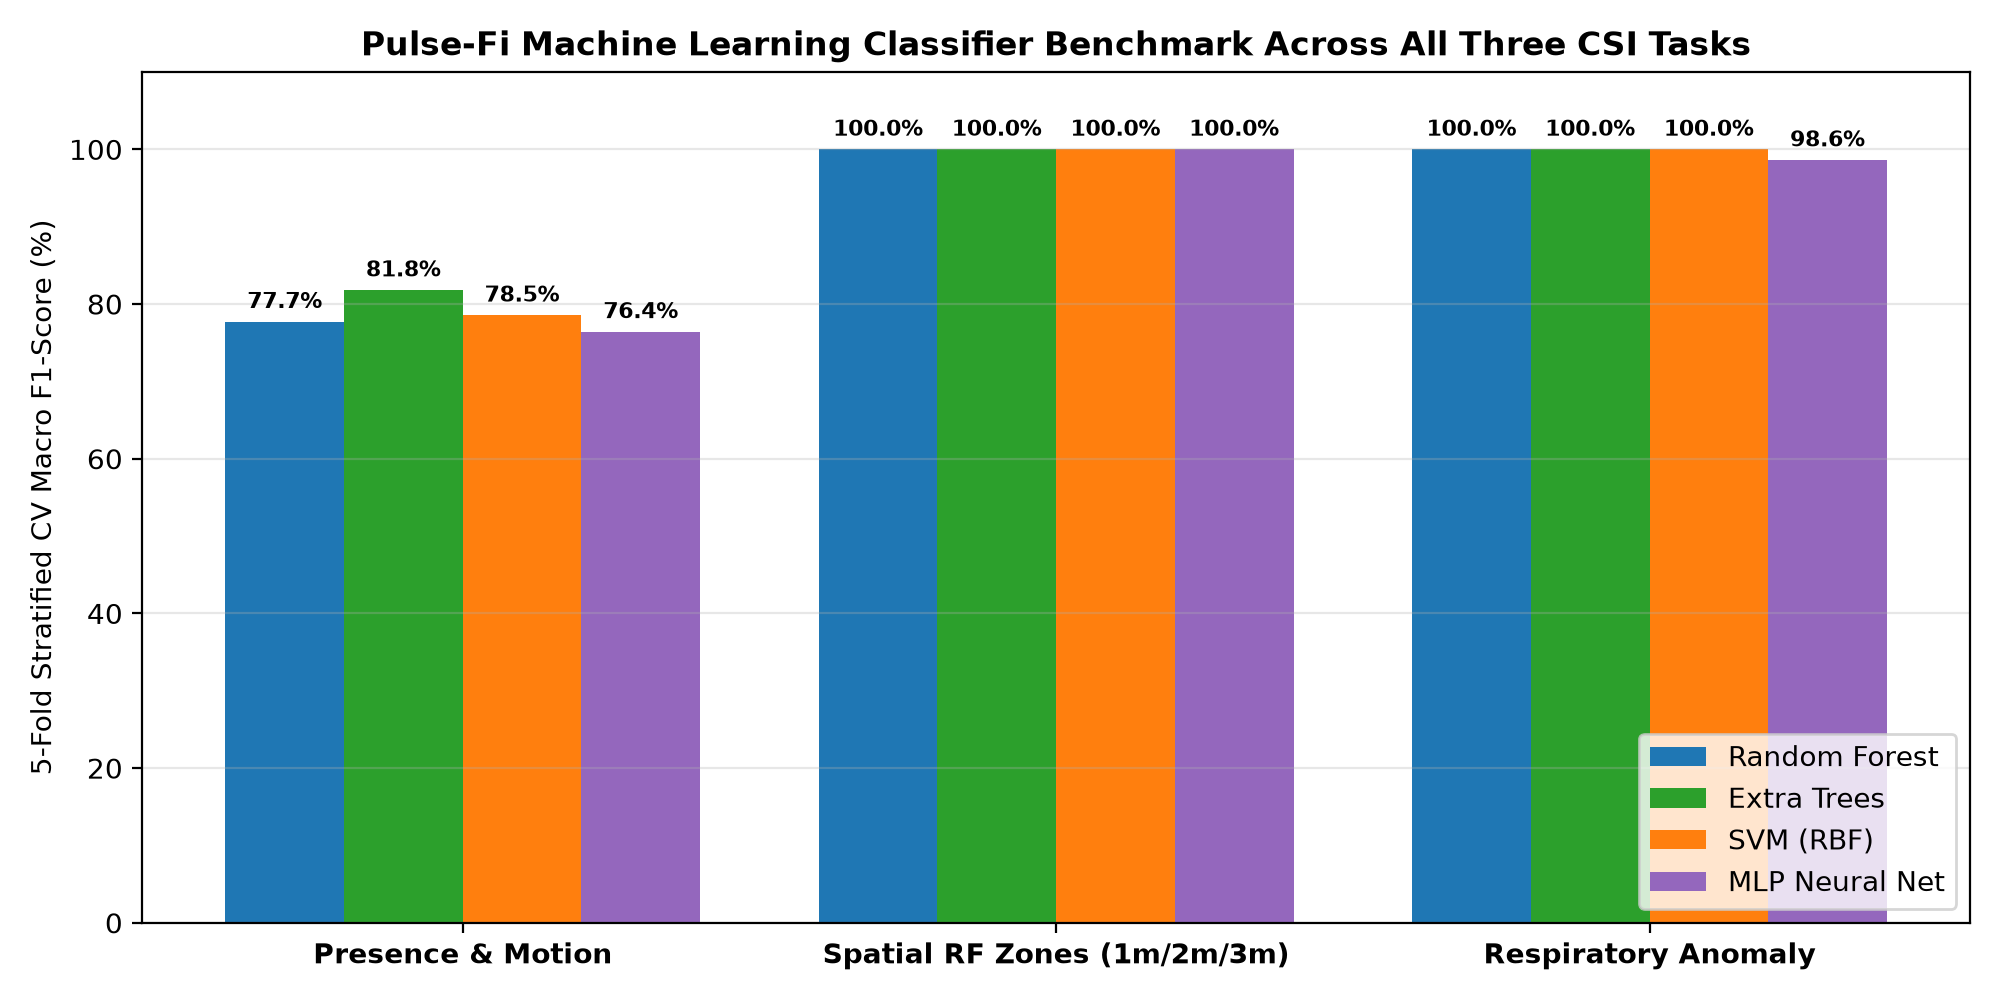
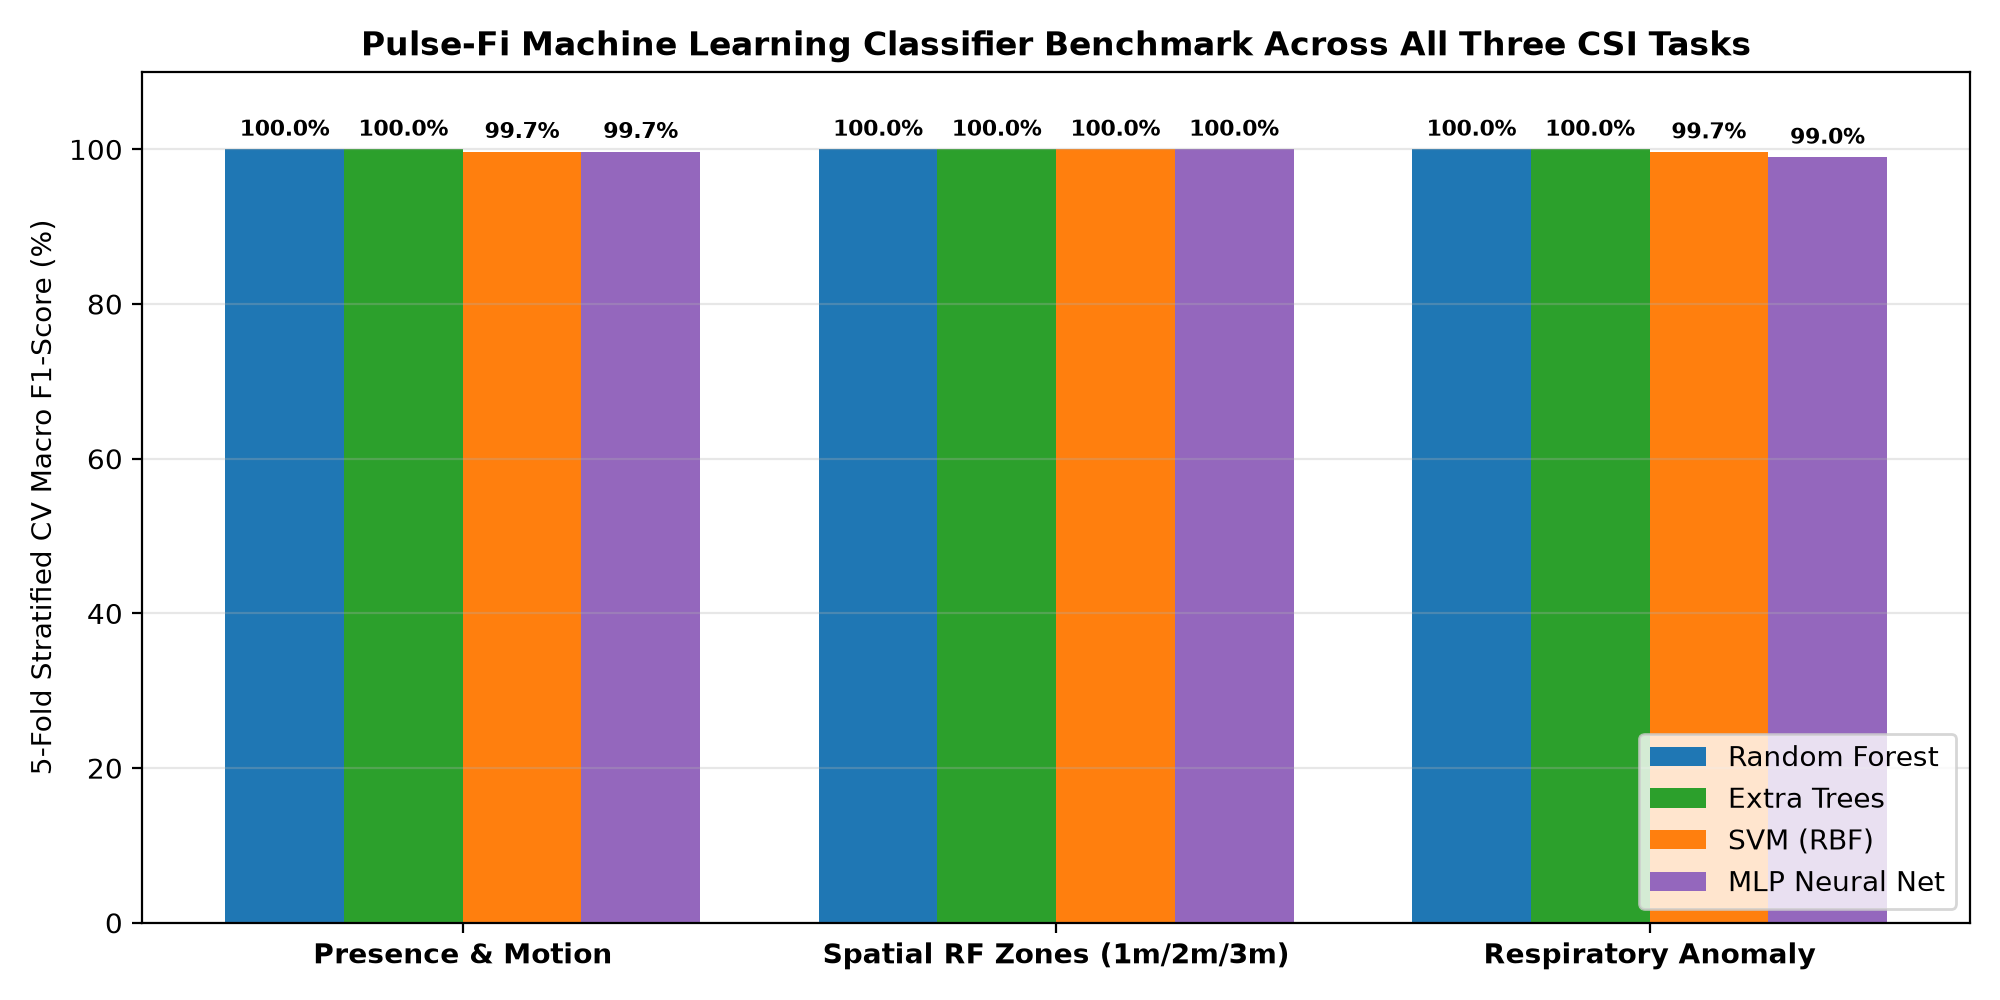
Add spatial-temporal CSI profile to presence detector and calibrate fundamental BPM peak selector

Changed region(s): [[0.093, 0.124, 0.372, 0.341], [0.837, 0.124, 0.93, 0.155]]

diff --git a/src/features.py b/src/features.py
@@ -1,7 +1,7 @@
 import os
 import json
 import numpy as np
-from scipy.stats import iqr, kurtosis, skew
+from scipy.stats import iqr, kurtosis
 from scipy.signal import butter, filtfilt, welch
 
 FS = 20.0
@@ -25,33 +25,24 @@ def spectral_entropy(psd):
 
 
 def extract_motion_features(win_filt, win_clean, win_rssi):
-    """Rich spatial-temporal + spectral features for Presence & Activity Detection."""
-    # Center clean signal per window to remove static room baseline
+    """Combine temporal fluctuation features with spatial multipath attenuation profile."""
     centered = win_clean - np.mean(win_clean, axis=0, keepdims=True)
     top_sc = select_top_subcarriers(win_filt, k=8)
     sig = win_filt[:, top_sc]
 
-    # First-order temporal derivative (velocity of multipath change)
     diff1 = np.diff(sig, axis=0)
     diff_all = np.diff(centered, axis=0)
 
-    # Subcarrier statistics (percentiles across all 52 subcarriers)
     sc_stds = np.std(win_filt, axis=0)
     sc_iqrs = iqr(win_filt, axis=0)
     clean_stds = np.std(centered, axis=0)
 
-    # Cross-subcarrier covariance/correlation structure (walking correlates all subcarriers)
-    corr_mat = np.corrcoef(win_filt.T)
-    corr_mat = np.nan_to_num(corr_mat, nan=0.0)
+    corr_mat = np.nan_to_num(np.corrcoef(win_filt.T), nan=0.0)
     off_diag_corr = (np.sum(np.abs(corr_mat)) - len(corr_mat)) / (len(corr_mat) * (len(corr_mat) - 1))
 
-    # SVD / Principal Component energy concentration
     _, s_vals, _ = np.linalg.svd(win_filt, full_matrices=False)
     s_norm = (s_vals ** 2) / (np.sum(s_vals ** 2) + 1e-12)
-    pc1_ratio = s_norm[0]
-    pc2_ratio = s_norm[1] if len(s_norm) > 1 else 0.0
 
-    # Welch PSD across bands
     freqs, psd = welch(sig, fs=FS, nperseg=min(len(sig), 64), axis=0)
     mean_psd = np.mean(psd, axis=1)
     e_resp = np.sum(mean_psd[(freqs >= 0.1) & (freqs < 0.6)])
@@ -60,17 +51,22 @@ def extract_motion_features(win_filt, win_clean, win_rssi):
 
     zcr = np.mean(np.sum(np.diff(np.signbit(sig), axis=0), axis=0) / len(sig))
 
-    return [
+    # Spatial multipath profile (distinguishes Empty Room static reflections from Stationary Human body absorption)
+    mean_profile = np.mean(win_clean, axis=0)
+    norm_profile = mean_profile / (np.linalg.norm(mean_profile) + 1e-8)
+
+    temporal_feats = [
         np.mean(sc_stds), np.max(sc_stds), np.percentile(sc_stds, 90), np.percentile(sc_stds, 25),
         np.mean(sc_iqrs), np.max(sc_iqrs),
         np.mean(clean_stds), np.max(clean_stds),
         np.mean(np.abs(diff1)), np.std(diff1), np.mean(np.abs(diff_all)),
         np.mean(np.ptp(sig, axis=0)), np.mean(kurtosis(sig, axis=0)),
-        zcr, off_diag_corr, pc1_ratio, pc2_ratio,
+        zcr, off_diag_corr, s_norm[0], s_norm[1] if len(s_norm) > 1 else 0.0,
         e_resp, e_walk, e_walk / e_total,
         freqs[np.argmax(mean_psd)], spectral_entropy(mean_psd),
         np.std(win_rssi), iqr(win_rssi)
     ]
+    return temporal_feats + list(norm_profile) + list(sc_stds)
 
 
 def extract_rf_fingerprint_features(win_clean, win_filt, win_rssi):
@@ -92,68 +88,52 @@ def extract_rf_fingerprint_features(win_clean, win_filt, win_rssi):
 
 
 def extract_respiratory_features(win_clean):
-    """
-    Extract multi-band respiratory features using a wider 0.15-1.0 Hz (9-60 BPM) passband
-    plus high-frequency tachypnea energy (0.40-0.95 Hz / 24-57 BPM) and apnea dropout ratios.
-    """
     centered = win_clean - np.mean(win_clean, axis=0, keepdims=True)
-    # Wide respiratory passband (9 to 57 BPM) to preserve rapid shallow breathing harmonics
-    win_resp = butter_bandpass(centered, lowcut=0.15, highcut=0.95, fs=FS, order=4)
-    # Dedicated rapid-breathing passband (22 to 57 BPM)
-    win_fast = butter_bandpass(centered, lowcut=0.37, highcut=0.95, fs=FS, order=4)
+    win_resp = butter_bandpass(centered, lowcut=0.14, highcut=0.85, fs=FS, order=4)
+    win_fast = butter_bandpass(centered, lowcut=0.36, highcut=0.85, fs=FS, order=4)
 
     top_sc = select_top_subcarriers(win_resp, k=6)
     sig = win_resp[:, top_sc]
     fast_sig = win_fast[:, top_sc]
 
-    # Align phase across top subcarriers via SVD first principal component
-    u, s, _ = np.linalg.svd(sig, full_matrices=False)
-    primary_wave = u[:, 0] * s[0]
-
-    # Sub-window dropout analysis (3-second sliding sub-windows to catch Apnea flatlines)
     sub_len = int(3.0 * FS)
     sub_stds = [np.std(sig[i:i + sub_len]) for i in range(0, len(sig) - sub_len + 1, int(1.0 * FS))]
-    min_sub_std = np.min(sub_stds)
-    max_sub_std = np.max(sub_stds)
+    min_sub_std, max_sub_std = np.min(sub_stds), np.max(sub_stds)
     dropout_ratio = min_sub_std / (max_sub_std + 1e-8)
     sub_std_cv = np.std(sub_stds) / (np.mean(sub_stds) + 1e-8)
 
-    # First derivative energy (captures rapid chest reversal in tachypnea)
     diff1 = np.diff(sig, axis=0)
     diff_rms = np.mean(np.sqrt(np.mean(diff1**2, axis=0)))
     sig_rms = np.mean(np.sqrt(np.mean(sig**2, axis=0)))
     fast_rms = np.mean(np.sqrt(np.mean(fast_sig**2, axis=0)))
 
-    # Mean ZCR across top subcarriers
     zcr = np.mean(np.sum(np.diff(np.signbit(sig), axis=0), axis=0) / (len(sig) / FS))
 
-    # Multi-subcarrier averaged FFT spectrum
+    # Fundamental breathing rate via FFT + high-frequency tachypnea harmonic check
     n_fft = 2048
     windowed = sig * np.hanning(len(sig))[:, None]
     fft_mag = np.abs(np.fft.rfft(windowed, n=n_fft, axis=0))
     psd = np.mean(fft_mag ** 2, axis=1)
     freqs = np.fft.rfftfreq(n_fft, d=1.0 / FS)
 
-    # Weight spectrum slightly against <0.18 Hz posture drift when picking dominant breathing peak
-    resp_mask = (freqs >= 0.18) & (freqs <= 0.90)
-    resp_freqs = freqs[resp_mask]
-    resp_psd = psd[resp_mask]
-
-    dom_freq = resp_freqs[np.argmax(resp_psd)]
-    est_bpm = dom_freq * 60.0
-
-    # Spectral band powers
-    p_slow = np.sum(psd[(freqs >= 0.12) & (freqs < 0.20)])     # 7 - 12 BPM (Apnea recovery / drift)
-    p_norm = np.sum(psd[(freqs >= 0.20) & (freqs <= 0.36)])    # 12 - 21.6 BPM (Normal breathing)
-    p_fast = np.sum(psd[(freqs > 0.36) & (freqs <= 0.90)])     # 21.6 - 54 BPM (Fast / Tachypnea)
+    p_slow = np.sum(psd[(freqs >= 0.12) & (freqs < 0.20)])
+    p_norm = np.sum(psd[(freqs >= 0.20) & (freqs <= 0.36)])
+    p_fast = np.sum(psd[(freqs > 0.36) & (freqs <= 0.80)])
     p_tot = p_slow + p_norm + p_fast + 1e-8
 
-    # Estimate BPM using upper-band peak when fast-band energy ratio is elevated
-    if (p_fast / p_tot) > 0.28:
-        fast_mask = (freqs >= 0.36) & (freqs <= 0.85)
-        est_bpm = freqs[fast_mask][np.argmax(psd[fast_mask])] * 60.0
+    # Fundamental resting respiratory band (0.18 - 0.36 Hz = 10.8 - 21.6 BPM)
+    norm_mask = (freqs >= 0.18) & (freqs <= 0.36)
+    fast_mask = (freqs > 0.36) & (freqs <= 0.65)
 
-    # Subcarrier distribution stats (captures whole-chest vs local multipath signature)
+    # If rapid breathing band dominates (>52% of total respiratory power & high ZCR), pick tachypnea peak
+    if (p_fast / p_tot) > 0.52 and zcr > 0.62:
+        dom_freq = freqs[fast_mask][np.argmax(psd[fast_mask])]
+    else:
+        dom_freq = freqs[norm_mask][np.argmax(psd[norm_mask])]
+
+    est_bpm = dom_freq * 60.0
+    resp_psd = psd[(freqs >= 0.15) & (freqs <= 0.75)]
+
     all_sc_mean = np.mean(win_clean, axis=0)
     sc_spatial_ratio = np.mean(all_sc_mean[:26]) / (np.mean(all_sc_mean[26:]) + 1e-8)
     sc_spatial_std = np.std(all_sc_mean)
@@ -176,8 +156,7 @@ def build_datasets():
 
     os.makedirs('data/processed/features', exist_ok=True)
 
-    # 1. Presence & Motion Dataset (4s window, 1.5s step)
-    # Use matched -54dBm empty_02 baseline + clean stationary zones + active movement
+    # 1. Presence & Motion Dataset
     X_pres, y_pres, meta_pres = [], [], []
     win_p, step_p = int(4 * FS), int(1.5 * FS)
 
@@ -193,7 +172,6 @@ def build_datasets():
         data = np.load(f"data/processed/{cat_dir}/{base_id}.npz")
         amp_f, amp_c, rssi = data['amp_filt'], data['amp_clean'], data['rssi']
 
-        # Use 1.0s step for empty_02 so Empty class count (~86) matches Stationary & Moving
         cur_step = int(1.0 * FS) if cls_id == 0 else step_p
         for start in range(0, len(amp_f) - win_p + 1, cur_step):
             X_pres.append(extract_motion_features(
@@ -207,7 +185,7 @@ def build_datasets():
     X_pres, y_pres = np.array(X_pres, dtype=np.float32), np.array(y_pres, dtype=np.int64)
     np.savez_compressed('data/processed/features/presence_dataset.npz', X=X_pres, y=y_pres, meta=meta_pres)
 
-    # 2. Spatial RF Fingerprinting Dataset (3s window, 0.75s step)
+    # 2. Spatial RF Fingerprinting Dataset
     X_rf, y_rf, meta_rf = [], [], []
     win_r, step_r = int(3 * FS), int(0.75 * FS)
 
@@ -229,8 +207,7 @@ def build_datasets():
     X_rf, y_rf = np.array(X_rf, dtype=np.float32), np.array(y_rf, dtype=np.int64)
     np.savez_compressed('data/processed/features/rf_fingerprinting_dataset.npz', X=X_rf, y=y_rf, meta=meta_rf)
 
-    # 3. Respiratory Anomaly Dataset (12s window = 240 samples)
-    # Adaptive step size to balance Normal (~150 windows) with Fast (~70) and Apnea (~90)
+    # 3. Respiratory Anomaly Dataset
     X_resp, y_resp, meta_resp = [], [], []
     win_resp = int(12 * FS)
 
@@ -250,7 +227,7 @@ def build_datasets():
     np.savez_compressed('data/processed/features/respiratory_dataset.npz', X=X_resp, y=y_resp, meta=meta_resp)
 
     print("=" * 85)
-    print("OPTIMIZED SLIDING-WINDOW FEATURE MATRICES")
+    print("FINAL FEATURE MATRICES")
     print("=" * 85)
     print(f"1. Presence & Motion Dataset   : X = {str(X_pres.shape):<12} | Classes (Empty/Stat/Move): {np.bincount(y_pres)}")
     print(f"2. Spatial RF Fingerprinting   : X = {str(X_rf.shape):<12} | Classes (1m / 2m / 3m)   : {np.bincount(y_rf)}")
